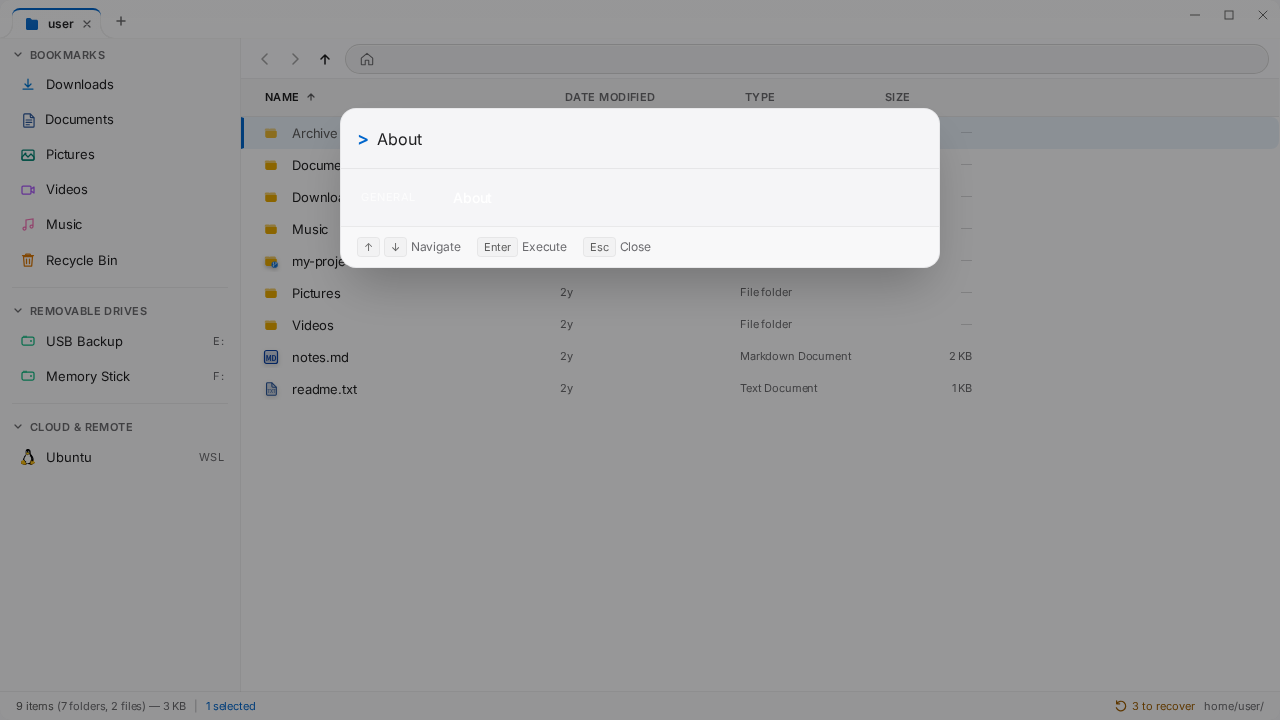
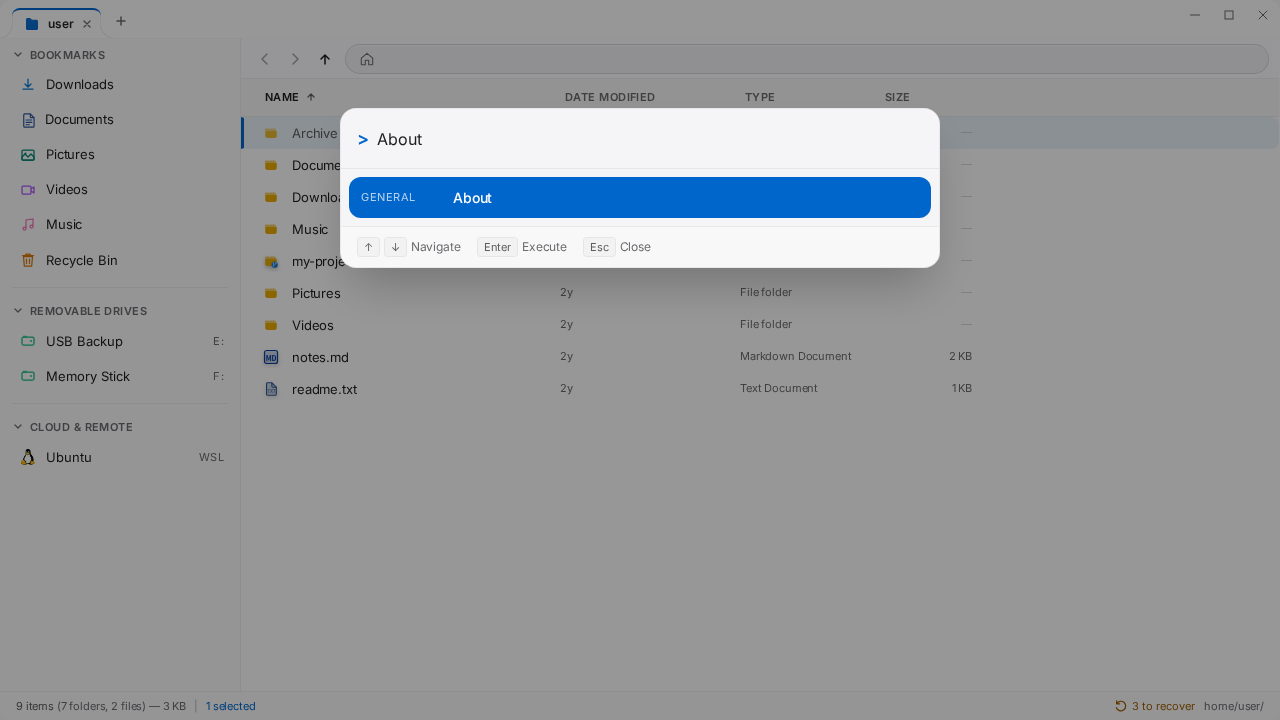
docs: document About modal ownership and stabilize visual evidence

Changed region(s): [[0.25, 0.2444, 0.75, 0.3056]]

diff --git a/e2e/about-command.spec.ts b/e2e/about-command.spec.ts
@@ -18,12 +18,12 @@ test("About shows the running app version and supports dismissal/reopening @smok
   }
 
   await searchAbout();
-  await page.screenshot({ path: "evidence/ac-1-about-command.png" });
+  await page.screenshot({ path: "evidence/ac-1-about-command.png", animations: "disabled" });
   await page.keyboard.press("Enter");
   await expect(palette).toBeHidden();
   await expect(about).toBeVisible();
   await expect(about.getByText("Version 0.0.0-mock", { exact: true })).toBeVisible();
-  await page.screenshot({ path: "evidence/ac-2-about-version.png" });
+  await page.screenshot({ path: "evidence/ac-2-about-version.png", animations: "disabled" });
   await page.keyboard.press("Escape");
   await expect(about).toBeHidden();
 

diff --git a/CLAUDE.md b/CLAUDE.md
@@ -336,3 +336,7 @@ The About surface uses the existing `AppInfo` contract and `getAppInfo()` bridge
 (`get_app_info` returns the packaged Rust version). Keep this optional dialog
 lazy-loaded through `WindowDialogs.svelte`, with modal ownership provided by
 `Modal.svelte`; do not read package.json for the running application version.
+The store must include About in `hasModalOpen` and `closeAll`, including while
+its lazy import is pending. Browser evidence for this surface must finish CSS
+animations (`page.screenshot({ animations: "disabled", ... })`): a visible DOM
+assertion can succeed on the first transparent frame of the shared modal fade.
